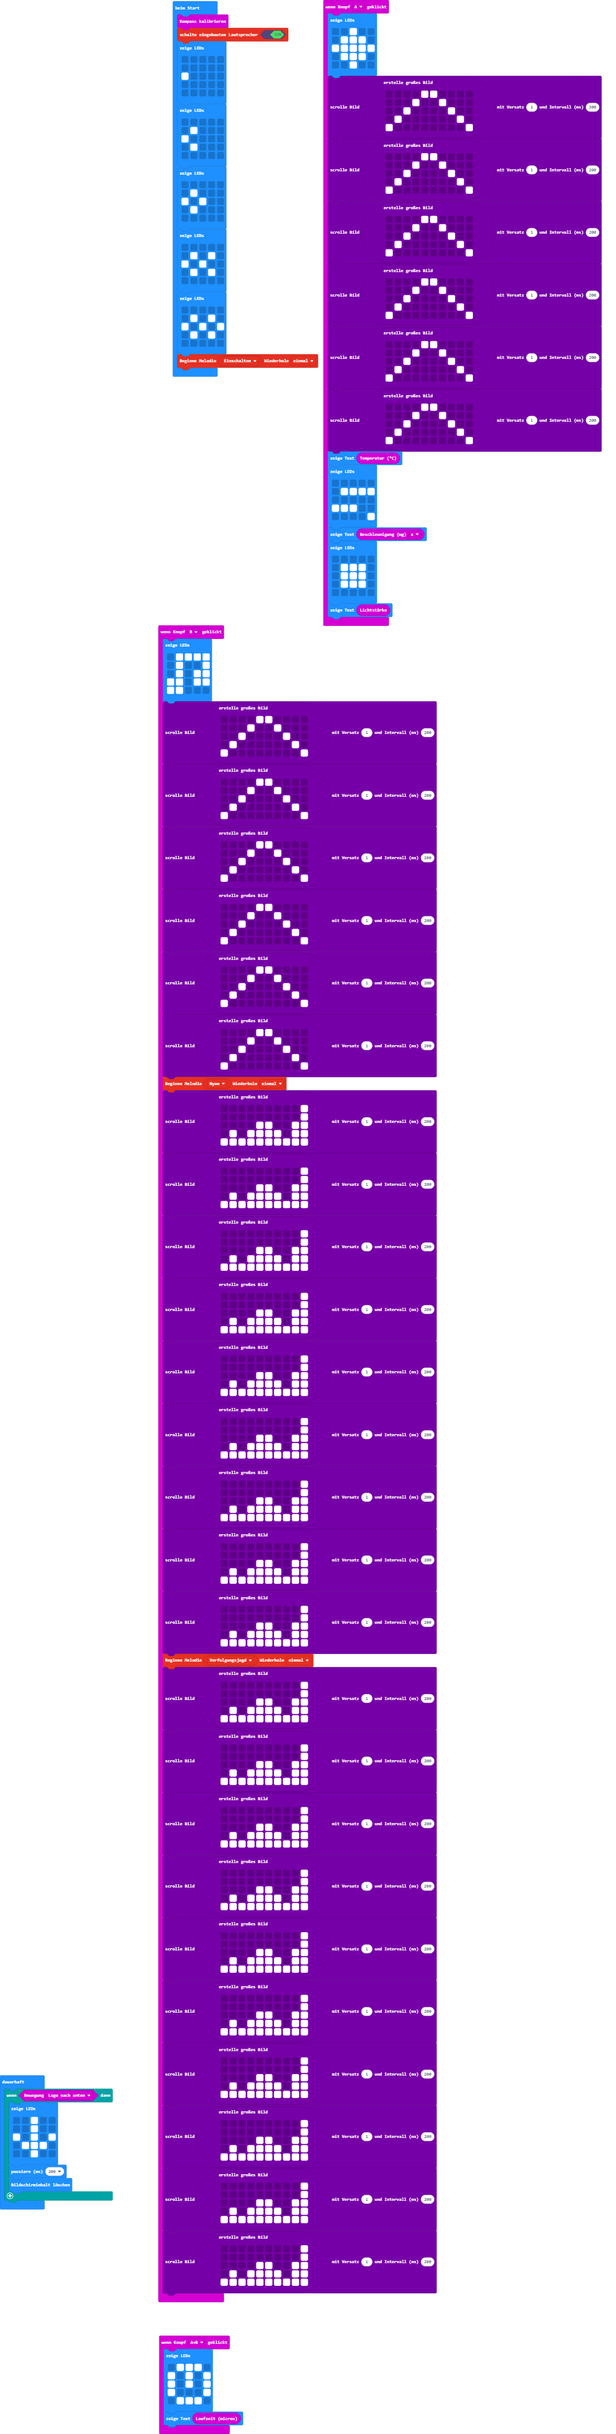
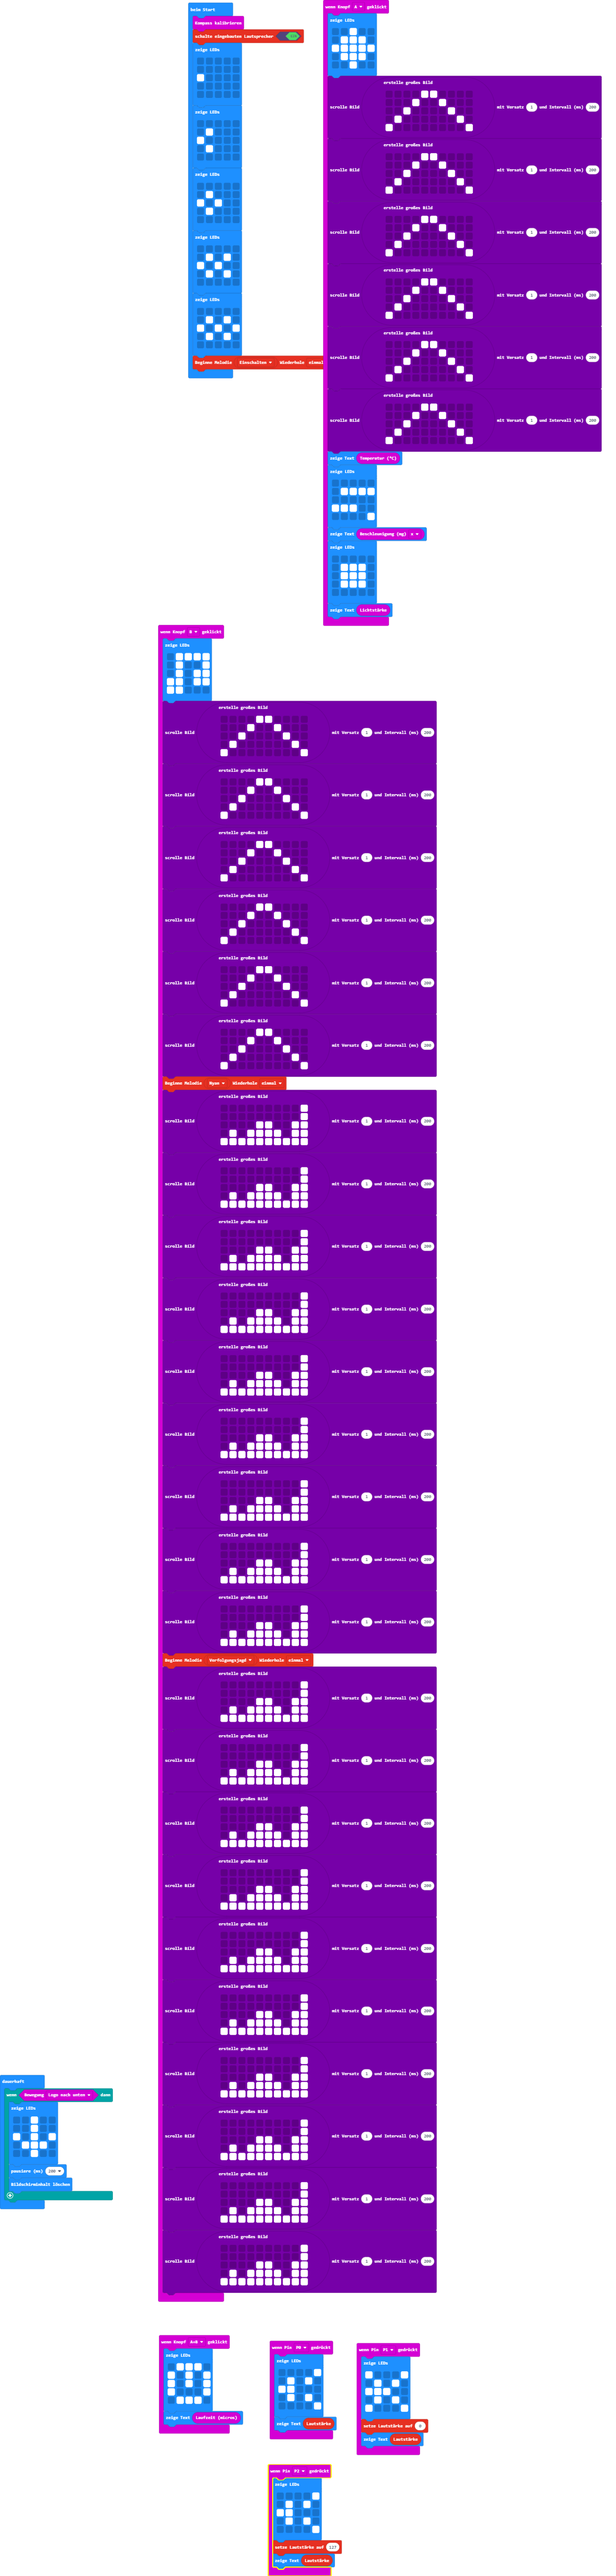
Lautstärke

diff --git a/main.ts b/main.ts
@@ -1,3 +1,13 @@
+input.onPinPressed(TouchPin.P0, function () {
+    basic.showLeds(`
+        . . . . #
+        . # . # .
+        # # . . .
+        . # . # .
+        . . . . #
+        `)
+    basic.showString("" + (music.volume()))
+})
 input.onButtonPressed(Button.A, function () {
     basic.showLeds(`
         . . # . .
@@ -65,6 +75,17 @@ input.onButtonPressed(Button.A, function () {
         . . . . .
         `)
     basic.showString("" + (input.lightLevel()))
+})
+input.onPinPressed(TouchPin.P2, function () {
+    basic.showLeds(`
+        . . . . #
+        . # . # .
+        # # . . .
+        . # . # .
+        . . . . #
+        `)
+    music.setVolume(127)
+    basic.showString("" + (music.volume()))
 })
 input.onButtonPressed(Button.AB, function () {
     basic.showLeds(`
@@ -261,6 +282,17 @@ input.onButtonPressed(Button.B, function () {
         . # . # # # # . # #
         # # # # # # # # # #
         `).scrollImage(1, 200)
+})
+input.onPinPressed(TouchPin.P1, function () {
+    basic.showLeds(`
+        # . . . #
+        . # . # .
+        # # # . .
+        . # . # .
+        # . . . #
+        `)
+    music.setVolume(0)
+    basic.showString("" + (music.volume()))
 })
 input.calibrateCompass()
 music.setBuiltInSpeakerEnabled(true)
